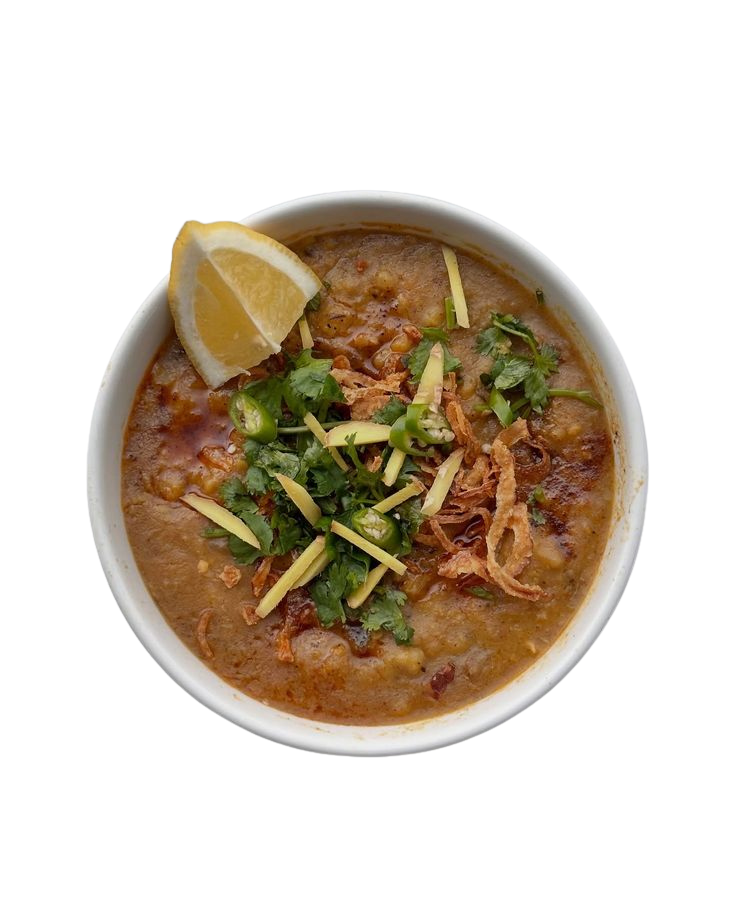
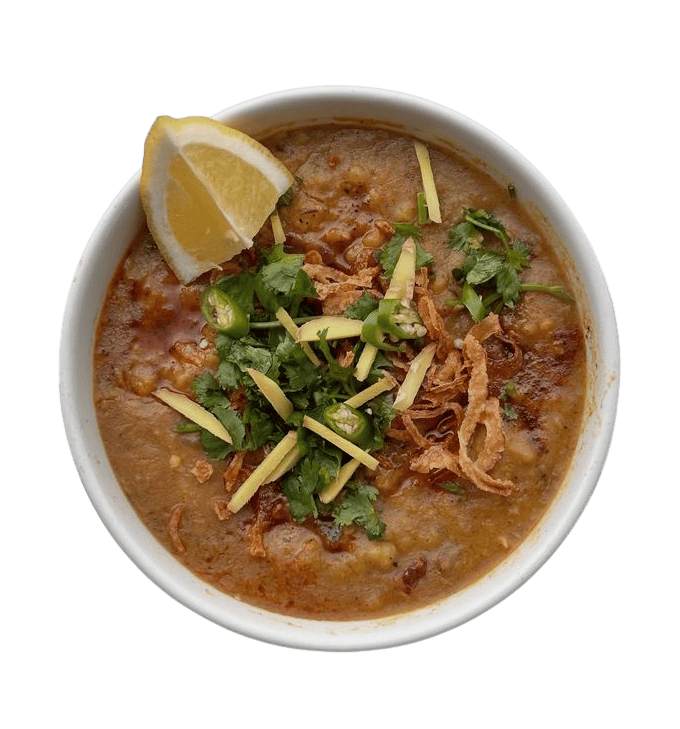
compressed the images and made some changes (pakistan)

diff --git a/src/app/all-items/page.tsx b/src/app/all-items/page.tsx
@@ -72,24 +72,24 @@ export default function AllProductsPage({ searchParams }: { searchParams: { [key
   { id: 75, name: 'Butter Naan', description: 'Soft naan brushed with butter', price: 60, category: 'traditional', image: '/items/traditional/butter.png' },
   { id: 76, name: 'Tandoori Chicken', description: 'Smoky tandoor-roasted marinated chicken', price: 550, category: 'traditional', image: '/items/traditional/tandoori.png' },
   { id: 71, name: 'Dal Tadka', description: 'Yellow lentils cooked with spices', price: 120, category: 'traditional', image: '/items/traditional/dal.png' },
+  { id: 77, name: 'Chicken Karahi', description: 'Spicy Pakistani chicken karahi with tomatoes', price: 650, category: 'pakistani', image: '/items/pakistani/karahi.png' },
+  { id: 78, name: 'Haleem', description: 'Traditional Pakistani meat & lentil stew', price: 450, category: 'pakistani', image: '/items/pakistani/haleem.png' },
+  { id: 79, name: 'Seekh Kebab', description: '4pcs Grilled spiced minced meat skewers', price: 400, category: 'pakistani', image: '/items/pakistani/kebab.png' },
+  { id: 80, name: 'Chapli Kebab', description: 'Flat spiced meat patties from Peshawar', price: 420, category: 'pakistani', image: '/items/pakistani/chapli.png' },
+  { id: 81, name: 'Nalli Nihari', description: 'Premium slow-cooked beef shank with bone marrow & spices', price: 650, category: 'pakistani', image: '/items/pakistani/nihari.png' },
+  { id: 82, name: 'Mutton Paya', description: 'Rich mutton trotters curry cooked overnight', price: 600, category: 'pakistani', image: '/items/pakistani/paya.png' },
   { id: 72, name: 'BIG Wrap', description: 'Large wrap filled with fresh veggies and meat', price: 220, category: 'appetizers', image: '/items/appetizers/BIG Wrap.png' },
   { id: 73, name: 'Cheezy Nachos', description: 'Nachos topped with melted cheese and dips', price: 200, category: 'appetizers', image: '/items/appetizers/Cheezy Nachos.png' },
   { id: 74, name: 'Dual Tacos', description: 'Two tacos with assorted fillings', price: 240, category: 'appetizers', image: '/items/appetizers/Dual Tacos.png' },
-  { id: 80, name: 'Espresso', description: 'Strong and rich coffee shot', price: 120, category: 'coffee', image: '/items/coffee/espresso.png' },
-  { id: 81, name: 'Cappuccino', description: 'Espresso with steamed milk and foam', price: 180, category: 'coffee', image: '/items/coffee/cappuccino.png' },
-  { id: 82, name: 'Iced Coffee', description: 'Chilled coffee with ice', price: 160, category: 'coffee', image: '/items/coffee/iced_coffee.png' },
+  { id: 85, name: 'Espresso', description: 'Strong and rich coffee shot', price: 120, category: 'coffee', image: '/items/coffee/espresso.png' },
+  { id: 86, name: 'Cappuccino', description: 'Espresso with steamed milk and foam', price: 180, category: 'coffee', image: '/items/coffee/cappuccino.png' },
+  { id: 87, name: 'Iced Coffee', description: 'Chilled coffee with ice', price: 160, category: 'coffee', image: '/items/coffee/iced_coffee.png' },
   { id: 90, name: 'Coca Cola', description: 'Classic soft drink', price: 60, category: 'drinks', image: '/items/drinks/coke.png' },
   { id: 91, name: 'Sprite', description: 'Lemon-lime flavored soda', price: 60, category: 'drinks', image: '/items/drinks/sprite.png' },
   { id: 92, name: 'Orange Juice', description: 'Freshly squeezed orange juice', price: 100, category: 'drinks', image: '/items/drinks/orange.png' },
   { id: 93, name: 'Lemonade', description: 'Freshly squeezed lemonade', price: 80, category: 'drinks', image: '/items/drinks/lemonade.png' },
   { id: 94, name: 'Iced Tea', description: 'Chilled tea with lemon', price: 90, category: 'drinks', image: '/items/drinks/iced_tea.png' },
-  { id: 95, name: 'Matcha', description: 'Refreshing Japanese green tea', price: 200, category: 'drinks', image: '/items/drinks/matcha.png' },
-  { id: 100, name: 'Chicken Karahi', description: 'Spicy Pakistani chicken karahi with tomatoes', price: 650, category: 'pakistani', image: '/items/pakistani/karahi.png' },
-  { id: 102, name: 'Haleem', description: 'Traditional meat and lentil stew', price: 450, category: 'pakistani', image: '/items/pakistani/haleem.png' },
-  { id: 103, name: 'Seekh Kebab', description: 'Grilled spiced minced meat skewers', price: 400, category: 'pakistani', image: '/items/pakistani/seekh_kebab.png' },
-  { id: 104, name: 'Chapli Kebab', description: 'Flat spiced meat patties from Peshawar', price: 420, category: 'pakistani', image: '/items/pakistani/chapli_kebab.png' },
-  { id: 106, name: 'Nalli Nihari', description: 'Premium slow-cooked beef shank with bone marrow and spices', price: 650, category: 'pakistani', image: '/items/pakistani/nihari.png' },
-  { id: 107, name: 'Mutton Paya', description: 'Rich mutton trotters curry cooked overnight', price: 600, category: 'pakistani', image: '/items/pakistani/paya.png' }
+  { id: 95, name: 'Matcha', description: 'Refreshing Japanese green tea', price: 200, category: 'drinks', image: '/items/drinks/matcha.png' }
   ];
 
 

diff --git a/src/data/menuItems.ts b/src/data/menuItems.ts
@@ -41,24 +41,24 @@ const menuItems: MenuItem[] = [
   { id: 75, name: 'Butter Naan', description: 'Soft naan brushed with butter', price: 60, category: 'traditional', image: '/items/traditional/butter.png' },
   { id: 76, name: 'Tandoori Chicken', description: 'Smoky tandoor-roasted marinated chicken', price: 550, category: 'traditional', image: '/items/traditional/tandoori.png' },
   { id: 71, name: 'Dal Tadka', description: 'Yellow lentils cooked with spices', price: 120, category: 'traditional', image: '/items/traditional/dal.png' },
+  { id: 77, name: 'Chicken Karahi', description: 'Spicy Pakistani chicken karahi with tomatoes', price: 650, category: 'pakistani', image: '/items/pakistani/karahi.png' },
+  { id: 78, name: 'Haleem', description: 'Traditional meat and lentil stew', price: 450, category: 'pakistani', image: '/items/pakistani/haleem.png' },
+  { id: 79, name: 'Seekh Kebab', description: 'Grilled spiced minced meat skewers', price: 400, category: 'pakistani', image: '/items/pakistani/seekh_kebab.png' },
+  { id: 80, name: 'Chapli Kebab', description: 'Flat spiced meat patties from Peshawar', price: 420, category: 'pakistani', image: '/items/pakistani/chapli_kebab.png' },
+  { id: 81, name: 'Nalli Nihari', description: 'Premium slow-cooked beef shank with bone marrow and spices', price: 650, category: 'pakistani', image: '/items/pakistani/nihari.png' },
+  { id: 82, name: 'Mutton Paya', description: 'Rich mutton trotters curry cooked overnight', price: 600, category: 'pakistani', image: '/items/pakistani/paya.png' },
   { id: 72, name: 'BIG Wrap', description: 'Large wrap filled with fresh veggies and meat', price: 220, category: 'appetizers', image: '/items/appetizers/BIG Wrap.png' },
   { id: 73, name: 'Cheezy Nachos', description: 'Nachos topped with melted cheese and dips', price: 200, category: 'appetizers', image: '/items/appetizers/Cheezy Nachos.png' },
   { id: 74, name: 'Dual Tacos', description: 'Two tacos with assorted fillings', price: 240, category: 'appetizers', image: '/items/appetizers/Dual Tacos.png' },
-  { id: 80, name: 'Espresso', description: 'Strong and rich coffee shot', price: 120, category: 'coffee', image: '/items/coffee/espresso.png' },
-  { id: 81, name: 'Cappuccino', description: 'Espresso with steamed milk and foam', price: 180, category: 'coffee', image: '/items/coffee/cappuccino.png' },
-  { id: 82, name: 'Iced Coffee', description: 'Chilled coffee with ice', price: 160, category: 'coffee', image: '/items/coffee/iced_coffee.png' },
+  { id: 85, name: 'Espresso', description: 'Strong and rich coffee shot', price: 120, category: 'coffee', image: '/items/coffee/espresso.png' },
+  { id: 86, name: 'Cappuccino', description: 'Espresso with steamed milk and foam', price: 180, category: 'coffee', image: '/items/coffee/cappuccino.png' },
+  { id: 87, name: 'Iced Coffee', description: 'Chilled coffee with ice', price: 160, category: 'coffee', image: '/items/coffee/iced_coffee.png' },
   { id: 90, name: 'Coca Cola', description: 'Classic soft drink', price: 60, category: 'drinks', image: '/items/drinks/coke.png' },
   { id: 91, name: 'Sprite', description: 'Lemon-lime flavored soda', price: 60, category: 'drinks', image: '/items/drinks/sprite.png' },
   { id: 92, name: 'Orange Juice', description: 'Freshly squeezed orange juice', price: 100, category: 'drinks', image: '/items/drinks/orange.png' },
   { id: 93, name: 'Lemonade', description: 'Freshly squeezed lemonade', price: 80, category: 'drinks', image: '/items/drinks/lemonade.png' },
   { id: 94, name: 'Iced Tea', description: 'Chilled tea with lemon', price: 90, category: 'drinks', image: '/items/drinks/iced_tea.png' },
-  { id: 95, name: 'Matcha', description: 'Refreshing Japanese green tea', price: 200, category: 'drinks', image: '/items/drinks/matcha.png' },
-  { id: 100, name: 'Chicken Karahi', description: 'Spicy Pakistani chicken karahi with tomatoes', price: 650, category: 'pakistani', image: '/items/pakistani/karahi.png' },
-  { id: 102, name: 'Haleem', description: 'Traditional meat and lentil stew', price: 450, category: 'pakistani', image: '/items/pakistani/haleem.png' },
-  { id: 103, name: 'Seekh Kebab', description: 'Grilled spiced minced meat skewers', price: 400, category: 'pakistani', image: '/items/pakistani/seekh_kebab.png' },
-  { id: 104, name: 'Chapli Kebab', description: 'Flat spiced meat patties from Peshawar', price: 420, category: 'pakistani', image: '/items/pakistani/chapli_kebab.png' },
-  { id: 106, name: 'Nalli Nihari', description: 'Premium slow-cooked beef shank with bone marrow and spices', price: 650, category: 'pakistani', image: '/items/pakistani/nihari.png' },
-  { id: 107, name: 'Mutton Paya', description: 'Rich mutton trotters curry cooked overnight', price: 600, category: 'pakistani', image: '/items/pakistani/paya.png' }
+  { id: 95, name: 'Matcha', description: 'Refreshing Japanese green tea', price: 200, category: 'drinks', image: '/items/drinks/matcha.png' }
 ];
 
 export default menuItems;
